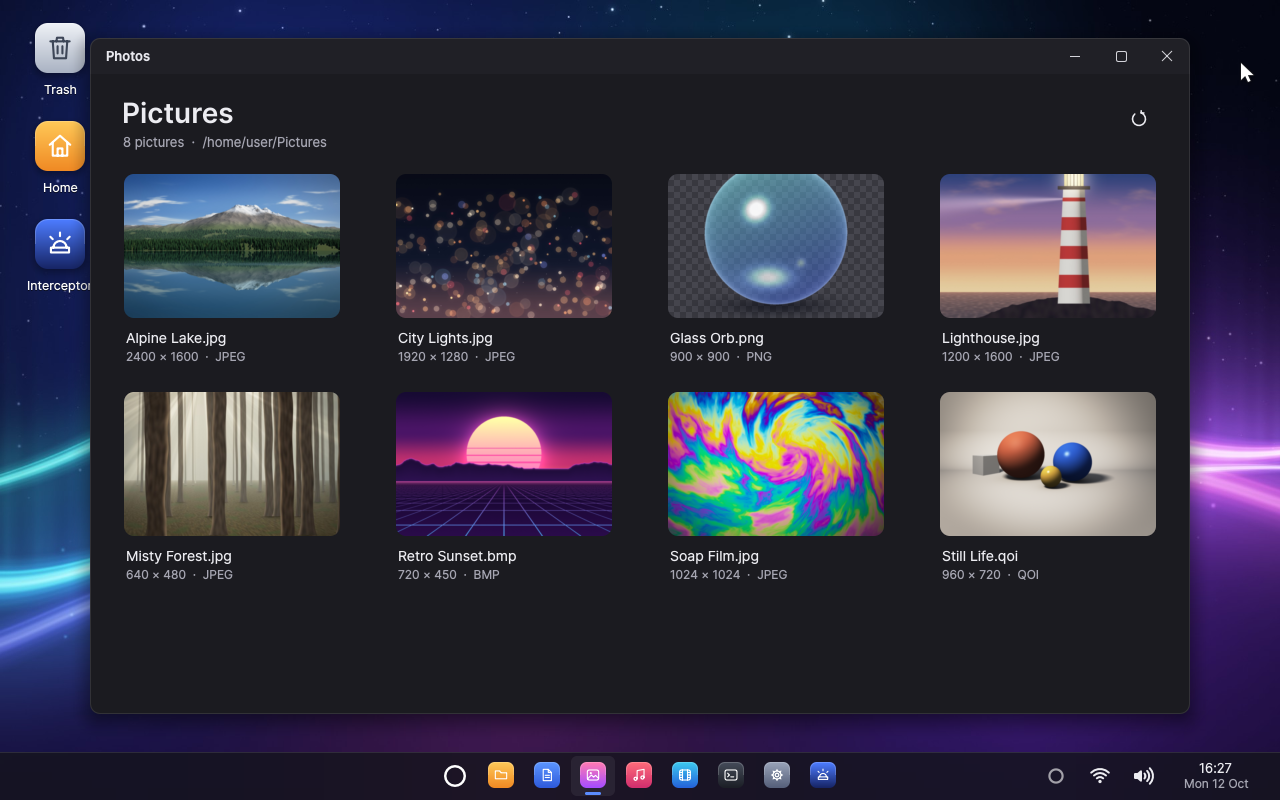
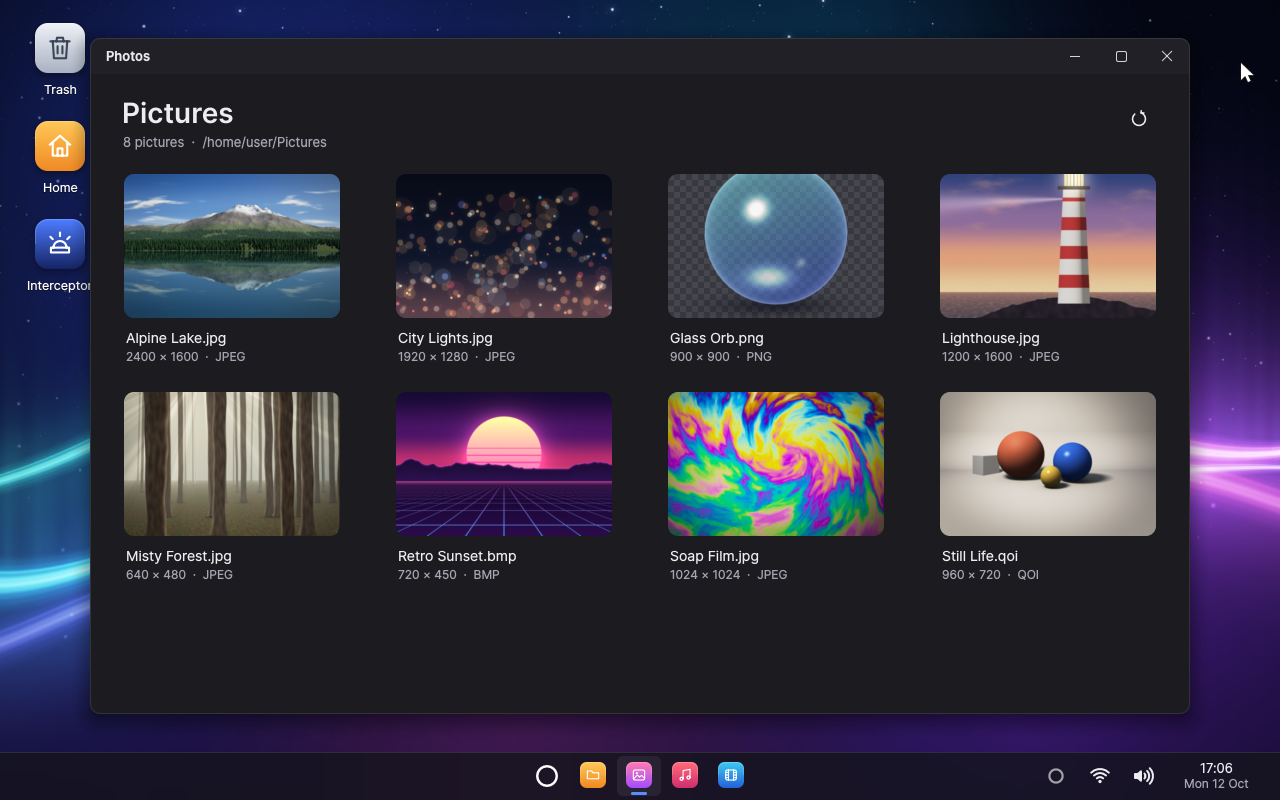
feat(shell): keep only Files, Photos, Music and Videos on the taskbar

Changed region(s): [[0.375, 0.9375, 0.6562, 1.0], [0.9375, 0.9375, 0.9688, 0.9688]]

diff --git a/apps/shell/src/taskbar.rs b/apps/shell/src/taskbar.rs
@@ -1,5 +1,6 @@
-//! The taskbar: start button, pinned and running applications in the middle,
-//! and the agent, network, volume and clock buttons on the right.
+//! The taskbar: start button, the applications kept on it (`taskbar=true`
+//! in their manifests) and running ones in the middle, and the agent,
+//! network, volume and clock buttons on the right.
 
 use alloc::format;
 use alloc::string::String;
@@ -25,7 +26,8 @@ struct Win {
     minimized: bool,
 }
 
-/// One button: an app (pinned and/or running) or a lone window.
+/// One button: an app (kept on the taskbar and/or running) or a lone
+/// window.
 struct Item {
     key: String,
     /// App id (selects the tile colour and what to launch).
@@ -51,7 +53,7 @@ fn items(m: &Model) -> Vec<Item> {
     let mut items: Vec<Item> = m
         .apps
         .iter()
-        .filter(|a| a.pinned)
+        .filter(|a| a.taskbar)
         .map(|a| Item {
             key: a.id.clone(),
             app: a.id.clone(),

diff --git a/services/init/src/apps.rs b/services/init/src/apps.rs
@@ -8,7 +8,11 @@
 //! category=Accessories
 //! description=Edit plain-text documents
 //! pinned=true
+//! taskbar=false
 //! ```
+//!
+//! `pinned` puts the app in the start menu's pinned grid, `taskbar` on the
+//! taskbar (both off unless given).
 
 use alloc::string::{String, ToString};
 use alloc::vec::Vec;
@@ -24,6 +28,7 @@ pub fn parse(id: &str, text: &str) -> AppInfo {
         category: "Applications".to_string(),
         description: String::new(),
         pinned: false,
+        taskbar: false,
     };
     for line in text.lines() {
         let line = line.trim();
@@ -39,6 +44,7 @@ pub fn parse(id: &str, text: &str) -> AppInfo {
             "category" => app.category = v,
             "description" => app.description = v,
             "pinned" => app.pinned = v == "true",
+            "taskbar" => app.taskbar = v == "true",
             _ => {}
         }
     }

diff --git a/apps/shell/src/main.rs b/apps/shell/src/main.rs
@@ -4,8 +4,8 @@
 //!
 //! * the **desktop** ([`desktop`]): wallpaper and desktop icons, the Trash
 //!   first;
-//! * the **taskbar** ([`taskbar`]): start button, pinned and running apps,
-//!   clock;
+//! * the **taskbar** ([`taskbar`]): start button, the apps kept on it and
+//!   running ones, clock;
 //! * the **start menu** ([`start`]), **calendar** ([`calendar`]),
 //!   **volume** ([`volume`]) and **network** ([`wifi`]) popups;
 //! * **notifications** ([`notify`]);

diff --git a/lib/proto/src/init.rs b/lib/proto/src/init.rs
@@ -66,8 +66,10 @@ message! {
         pub icon: String,
         pub category: String,
         pub description: String,
-        /// Shown pinned in the taskbar / start menu.
+        /// Shown pinned in the start menu.
         pub pinned: bool,
+        /// Shown on the taskbar, running or not.
+        pub taskbar: bool,
     }
 }
 

diff --git a/docs/DEVELOPING.md b/docs/DEVELOPING.md
@@ -332,9 +332,12 @@ icon=document
 category=Accessories
 description=What it does
 pinned=false
+taskbar=false
 ```
 
-`icon` names are mapped to vector icons by `vui::Icon::by_name`.
+`icon` names are mapped to vector icons by `vui::Icon::by_name`;
+`pinned=true` puts the app in the start menu's pinned grid, and
+`taskbar=true` keeps it on the taskbar when it is not running.
 
 5. Make it agent-compatible: implement `App::agent_info` (a summary and
    the actions it offers, with their risk), `App::agent_state` (what the
